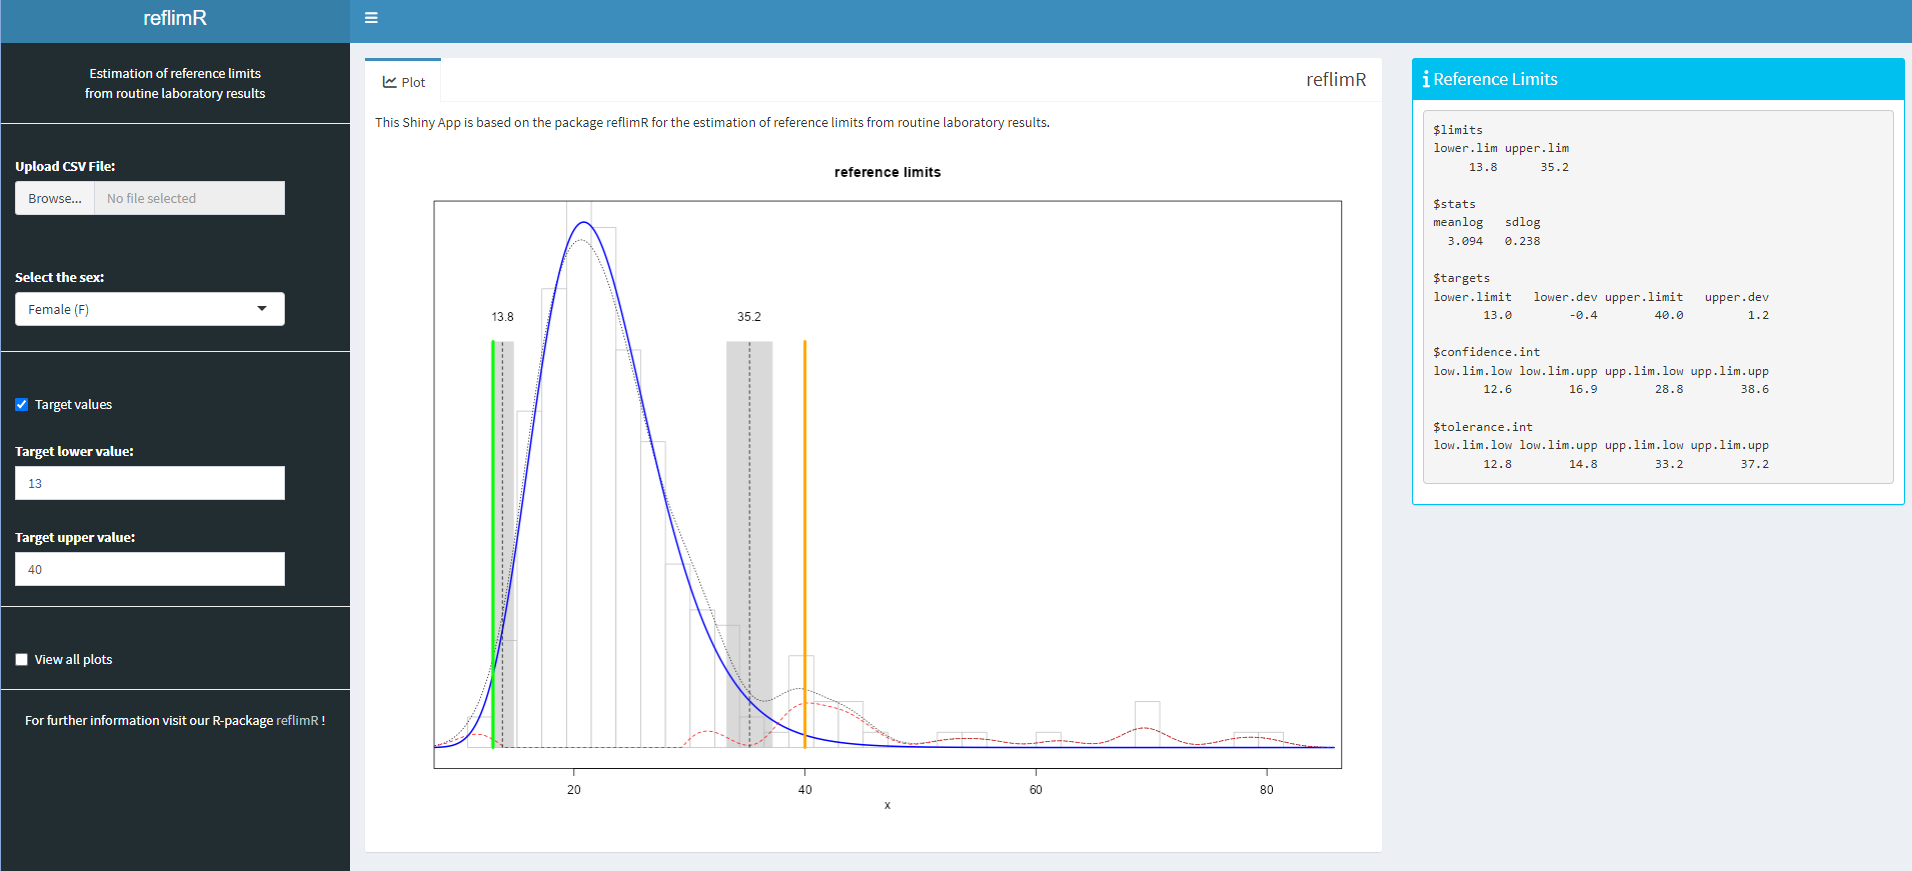
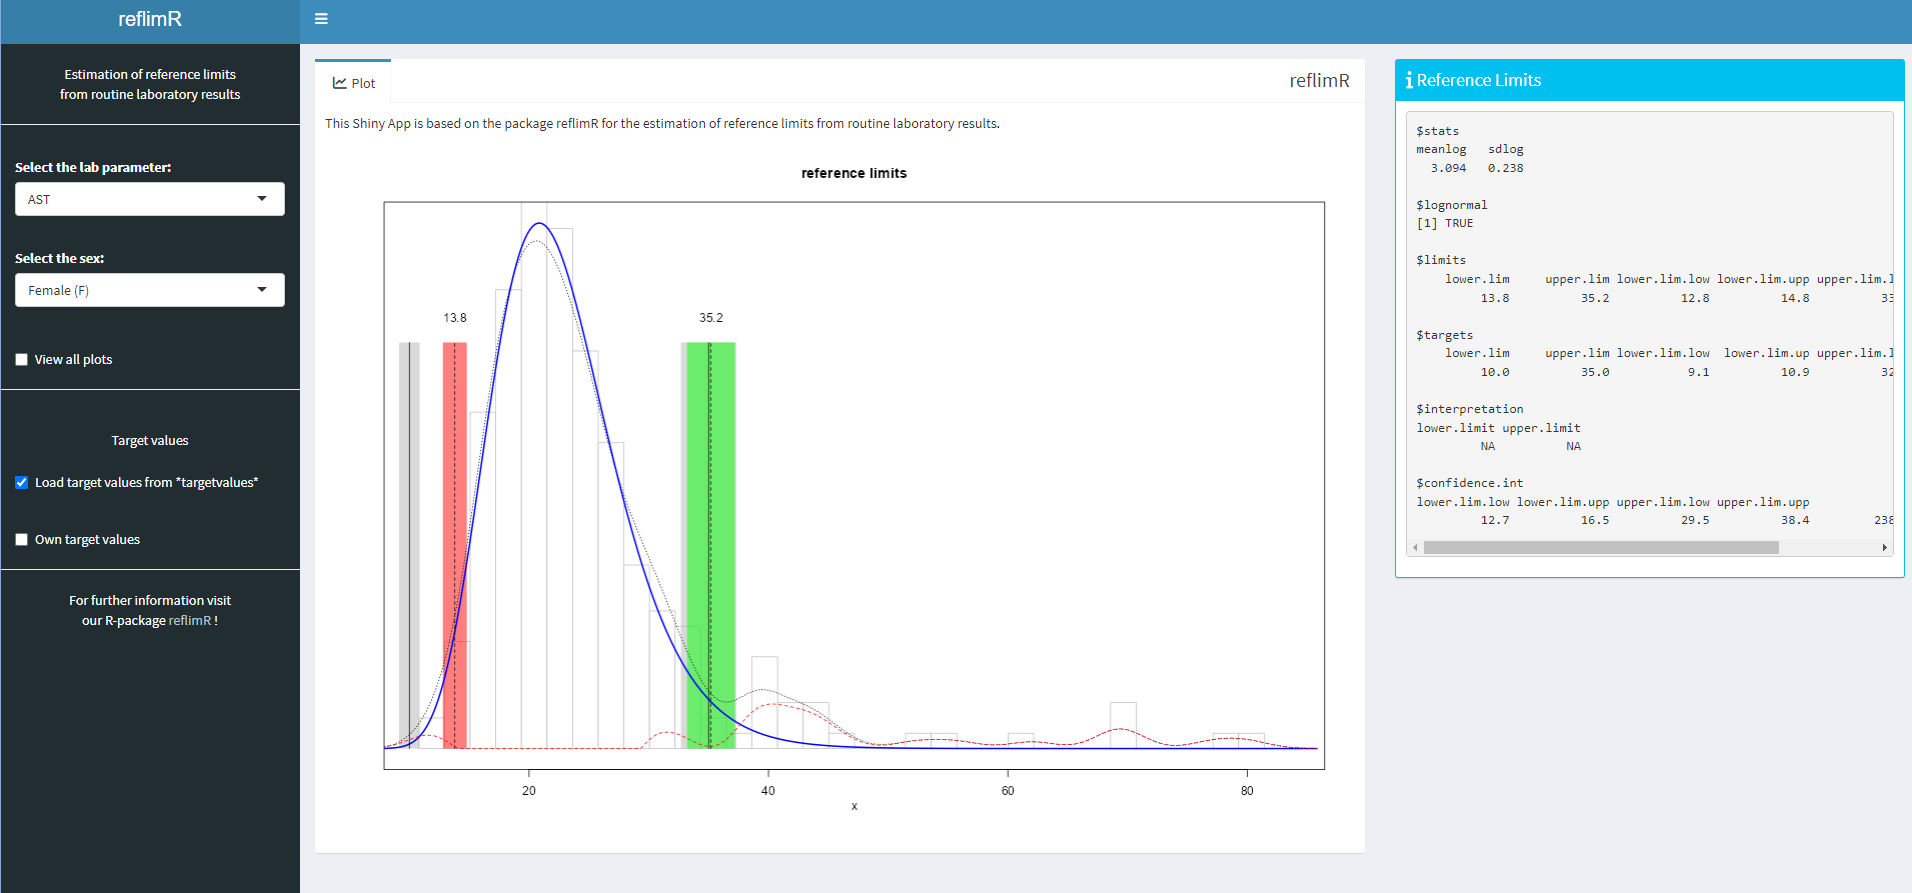
Added livertests and targetvalues data

diff --git a/README.md b/README.md
@@ -39,7 +39,7 @@ runApp("app.R")
 The package [reflimR](https://github.com/reflim/reflimR) and [shinydashboard](https://cran.r-project.org/web/packages/shinydashboard/index.html) (≥ 0.7.2) is downloaded or imported when starting this app. The used [R](https://www.r-project.org)-Version must be ≥ 4.1.2 (2021-11-01).
 
 ### Preloaded dataset
-Data from the [UC Irvine Machine Learning Repository](https://archive.ics.uci.edu/ml/datasets/HCV+data) showing AST data has been preloaded into this Shiny App.
+Data from the [UC Irvine Machine Learning Repository](https://archive.ics.uci.edu/ml/datasets/HCV+data) showing *livertests* has been preloaded into this Shiny App. In addition, the corresponding reference intervals are stored in *targetvalues*. The reference interval table has been derived from the data published in the [Clinical Laboratory Diagnostics](https://www.clinical-laboratory-diagnostics.com) by Lothar Thomas, MD. 
 
 ### New data
 These columns should be used for new data:
